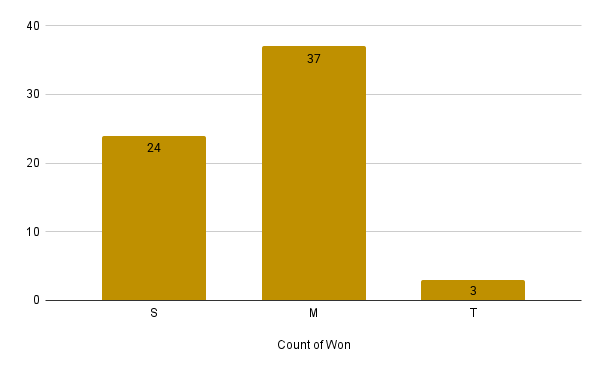
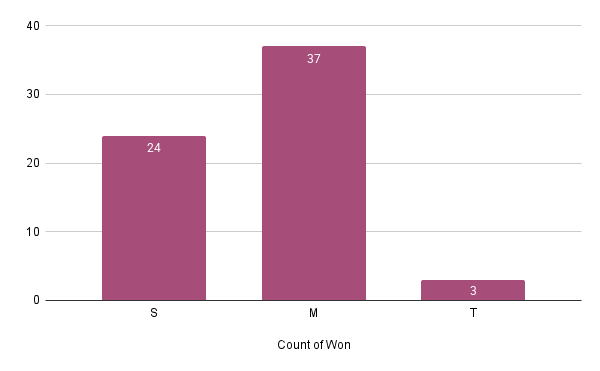
Add files via upload

Changed region(s): [[0.42, 0.1186, 0.63, 0.8302], [0.15, 0.3558, 0.36, 0.8302], [0.69, 0.7412, 0.9, 0.8302]]

diff --git a/scrabble/index.html b/scrabble/index.html
@@ -1,0 +1,344 @@
+<!DOCTYPE html>
+<html lang="en-us">
+  <head>
+    <meta charset="utf-8">
+    <meta http-equiv="X-UA-Compatible" content="IE=edge,chrome=1">
+    
+    <title>Scrabble: what letters lead to a win? | Aryana Collins Jackson</title>
+    <meta name="viewport" content="width=device-width,minimum-scale=1">
+    <meta name="description" content="An analysis of how getting certain letters during a Scrabble game impact the outcome. Based on 64 two-person games.">
+    <meta name="generator" content="Hugo 0.92.0" />
+    
+    
+      <META NAME="ROBOTS" CONTENT="NOINDEX, NOFOLLOW">
+    
+
+    
+<link rel="stylesheet" href="https://azcj.github.io/portfolio/ananke/css/main.min.css" >
+
+
+
+    
+    
+    
+      
+
+    
+
+    
+    
+    <meta property="og:title" content="Scrabble: what letters lead to a win?" />
+<meta property="og:description" content="An analysis of how getting certain letters during a Scrabble game impact the outcome. Based on 64 two-person games." />
+<meta property="og:type" content="article" />
+<meta property="og:url" content="https://azcj.github.io/portfolio/projects/scrabble/" /><meta property="article:section" content="projects" />
+<meta property="article:published_time" content="2025-08-20T11:25:05-04:00" />
+<meta property="article:modified_time" content="2025-08-20T11:25:05-04:00" /><meta property="og:site_name" content="Aryana Collins Jackson" />
+
+<meta itemprop="name" content="Scrabble: what letters lead to a win?">
+<meta itemprop="description" content="An analysis of how getting certain letters during a Scrabble game impact the outcome. Based on 64 two-person games."><meta itemprop="datePublished" content="2025-08-20T11:25:05-04:00" />
+<meta itemprop="dateModified" content="2025-08-20T11:25:05-04:00" />
+<meta itemprop="wordCount" content="2431">
+<meta itemprop="keywords" content="" /><meta name="twitter:card" content="summary"/>
+<meta name="twitter:title" content="Scrabble: what letters lead to a win?"/>
+<meta name="twitter:description" content="An analysis of how getting certain letters during a Scrabble game impact the outcome. Based on 64 two-person games."/>
+
+	
+  </head>
+
+  <body class="ma0 avenir bg-near-white">
+
+    
+   
+  
+
+  
+  
+  <header class="cover bg-top" style="background-image: url('https://azcj.github.io/portfolio/images/scrabble/scrabble-header.jpg');">
+    <div class="pb3-m pb6-l bg-black-60">
+      <nav class="pv3 ph3 ph4-ns" role="navigation">
+  <div class="flex-l justify-between items-center center">
+    <a href="https://azcj.github.io/portfolio/" class="f3 fw2 hover-white no-underline white-90 dib">
+      
+        Aryana Collins Jackson
+      
+    </a>
+    <div class="flex-l items-center">
+      
+
+      
+        <ul class="pl0 mr3">
+          
+          <li class="list f5 f4-ns fw4 dib pr3">
+            <a class="hover-white no-underline white-90" href="https://azcj.github.io/portfolio/about/" title="About page">
+              About
+            </a>
+          </li>
+          
+          <li class="list f5 f4-ns fw4 dib pr3">
+            <a class="hover-white no-underline white-90" href="https://azcj.github.io/portfolio/contact/" title="Contact page">
+              Contact
+            </a>
+          </li>
+          
+          <li class="list f5 f4-ns fw4 dib pr3">
+            <a class="hover-white no-underline white-90" href="https://azcj.github.io/portfolio/projects/" title="Projects page">
+              Projects
+            </a>
+          </li>
+          
+        </ul>
+      
+      
+<div class="ananke-socials">
+  
+    <a href="https://www.linkedin.com/in/aryana-collins-jackson-6100ba139/" target="_blank" class="linkedin ananke-social-link link-transition stackoverflow link dib z-999 pt3 pt0-l mr1" title="LinkedIn link" rel="noopener" aria-label="follow on LinkedIn——Opens in a new window">
+      
+        <span class="icon"><svg style="enable-background:new 0 0 65 65;" version="1.1" viewBox="0 0 65 65"  xml:space="preserve" xmlns="http://www.w3.org/2000/svg" xmlns:xlink="http://www.w3.org/1999/xlink">
+  <path d="M50.837,48.137V36.425c0-6.275-3.35-9.195-7.816-9.195  c-3.604,0-5.219,1.983-6.119,3.374V27.71h-6.79c0.09,1.917,0,20.427,0,20.427h6.79V36.729c0-0.609,0.044-1.219,0.224-1.655  c0.49-1.22,1.607-2.483,3.482-2.483c2.458,0,3.44,1.873,3.44,4.618v10.929H50.837z M22.959,24.922c2.367,0,3.842-1.57,3.842-3.531  c-0.044-2.003-1.475-3.528-3.797-3.528s-3.841,1.524-3.841,3.528c0,1.961,1.474,3.531,3.753,3.531H22.959z M34,64  C17.432,64,4,50.568,4,34C4,17.431,17.432,4,34,4s30,13.431,30,30C64,50.568,50.568,64,34,64z M26.354,48.137V27.71h-6.789v20.427  H26.354z" style="fill-rule:evenodd;clip-rule:evenodd;fill:{{ .fill }};"/>
+</svg>
+</span>
+      
+<span class="new-window"><svg  height="8px"  style="enable-background:new 0 0 1000 1000;" version="1.1" viewBox="0 0 1000 1000"  xml:space="preserve" xmlns="http://www.w3.org/2000/svg" xmlns:xlink="http://www.w3.org/1999/xlink" >
+<path d="M598 128h298v298h-86v-152l-418 418-60-60 418-418h-152v-86zM810 810v-298h86v298c0 46-40 86-86 86h-596c-48 0-86-40-86-86v-596c0-46 38-86 86-86h298v86h-298v596h596z" style="fill-rule:evenodd;clip-rule:evenodd;fill:;"/>
+</svg>
+</span></a>
+  
+</div>
+    </div>
+  </div>
+</nav>
+
+      <div class="tc-l pv6 ph3 ph4-ns">
+        
+          <h1 class="f2 f1-l fw2 white-90 mb0 lh-title">Scrabble: what letters lead to a win?</h1>
+          
+            <h2 class="fw1 f5 f3-l white-80 measure-wide-l center lh-copy mt3 mb4">
+              An analysis of how getting certain letters during a Scrabble game impact the outcome. Based on 64 two-person games.
+            </h2>
+          
+        
+      </div>
+    </div>
+  </header>
+
+
+
+    <main class="pb7" role="main">
+      
+  
+  <article class="flex-l flex-wrap justify-between mw8 center ph3">
+    <header class="mt4 w-100">
+      <aside class="instapaper_ignoref b helvetica tracked">
+          
+        PROJECTS
+      </aside>
+      
+
+
+
+
+
+
+
+
+
+
+  <div id="sharing" class="mt3 ananke-socials">
+    
+      
+      <a href="https://www.linkedin.com/shareArticle?mini=true&amp;url=https://azcj.github.io/portfolio/projects/scrabble/&amp;title=Scrabble:%20what%20letters%20lead%20to%20a%20win?" class="ananke-social-link linkedin no-underline" aria-label="share on LinkedIn">
+        
+        <span class="icon"> <svg style="enable-background:new 0 0 65 65;" version="1.1" viewBox="0 0 65 65"  xml:space="preserve" xmlns="http://www.w3.org/2000/svg" xmlns:xlink="http://www.w3.org/1999/xlink">
+  <path d="M50.837,48.137V36.425c0-6.275-3.35-9.195-7.816-9.195  c-3.604,0-5.219,1.983-6.119,3.374V27.71h-6.79c0.09,1.917,0,20.427,0,20.427h6.79V36.729c0-0.609,0.044-1.219,0.224-1.655  c0.49-1.22,1.607-2.483,3.482-2.483c2.458,0,3.44,1.873,3.44,4.618v10.929H50.837z M22.959,24.922c2.367,0,3.842-1.57,3.842-3.531  c-0.044-2.003-1.475-3.528-3.797-3.528s-3.841,1.524-3.841,3.528c0,1.961,1.474,3.531,3.753,3.531H22.959z M34,64  C17.432,64,4,50.568,4,34C4,17.431,17.432,4,34,4s30,13.431,30,30C64,50.568,50.568,64,34,64z M26.354,48.137V27.71h-6.789v20.427  H26.354z" style="fill-rule:evenodd;clip-rule:evenodd;fill:{{ .fill }};"/>
+</svg>
+</span>
+        
+      </a>
+    
+  </div>
+
+
+      <h1 class="f1 athelas mt3 mb1">Scrabble: what letters lead to a win?</h1>
+      
+      
+      
+      <time class="f6 mv4 dib tracked" datetime="2025-08-20T11:25:05-04:00">August 20, 2025</time>
+      
+
+      
+      
+    </header>
+    <div class="nested-copy-line-height lh-copy serif f4 nested-links nested-img mid-gray pr4-l w-two-thirds-l"><p>Overview:</p>
+<ul>
+<li>64 Scrabble games were recorded between myself and my boyfriend (2-player games only) between December 2019 and February 2025 (<em>yes</em>, this means that the sample size is very small).</li>
+<li>Getting a Z or J for either of us brings our scores down, while X brings our scores up.</li>
+<li>S wins games most when he has a Y; I win games most when I have a W.</li>
+<li>As is the case with all of my projects shown on this site, this analysis is just for fun. I am very aware that 64 samples is not a large enough dataset to draw any accurate insights from. I still had a good time pulling this together, and I think there are some interesting things that came out of it.</li>
+</ul>
+<hr>
+<p>Context:</p>
+<ul>
+<li>My boyfriend and I bought a French Scrabble game in 2019. The French game has seven high-scoring letters: J (8 points), K (10 points), Q (8 points), W (10 points), X (10 points), Y (10 points), and Z (10 points). We played the game in English.</li>
+<li>Scrabble became a pastime for us during the pandemic. Fifty games were played in 2020 alone.</li>
+<li>I kept track of the dates we played, who started the game, who won the game, the final scores, and who had each of the seven high-scoring letters.</li>
+<li>I did not keep track of what letters were left over at the end of the game and therefore what scores were added and subtracted from final scores. In future, I would add this to the data in order to analyse the most common ending letters/points, to find out if that impacts the overall winner more than not, and to see who most often gets stuck with letters at the end.</li>
+<li>I also did not track the order in which the letters were chosen. In future, I would add this as well as it could be interesting to see how order impacts scoring and winning (e.g., I hypothesize that getting a Q during the last turn would have a negative impact on score).</li>
+</ul>
+<hr>
+<p>Questions:</p>
+<ol>
+<li>Does starting have an impact on the outcome of the game for each of us? Does starting have an impact on score?</li>
+<li>Which high-scoring letters most often lead to a win for each of us? Which letters most often lead to a loss? How do the odds of winning change for each letter? In other words, while playing the game, can I anticipate a higher or lower chance of winning depending on which letters I get?</li>
+<li>How many points is each letter responsible for? In other words, while playing the game, can I anticipate an increase or decrease in a certain amount of points based on which letters I get?</li>
+<li>What combination of letters most often leads to a win for each of us? What combination of letters leads to a loss more?</li>
+</ol>
+<p><strong>I have organized this project into sections based on some preliminary figures, the questions above, and a section at the end diving into the three tied games.</strong></p>
+<p>For the remainder of this project, I am referred to as &ldquo;M&rdquo; and my boyfriend is referred to as &ldquo;S&rdquo;.</p>
+<hr>
+<p><strong>Preliminary analysis and visualizations</strong></p>
+<p>We mostly played throughout the pandemic, resulting in the vast majority of games in 2020.</p>
+<p><img src="https://azcj.github.io/portfolio/images/scrabble/GamesByYear.png" alt="Count of games by year"></p>
+<p>Looks like we were really crazy about it in January 2020 specifically!</p>
+<p><img src="https://azcj.github.io/portfolio/images/scrabble/GamesByMonth.png" alt="Count of games by month"></p>
+<p>I won 37 games, S won 24 games, and there were 3 ties</p>
+<p><img src="https://azcj.github.io/portfolio/images/scrabble/CountOfWon.png" alt="Overview of Scrabble games won"></p>
+<p>Unfortunately, six games had incomplete data on who had which letters.</p>
+<p>I got at least four of the seven high-scoring letters in 34 out of the 58 games remaining, while S had at least four of those letters in 24 games. I had at least five of the seven high-scoring letters in 16 games, while he had at least five of the letters in 14 games - much more comparable. I had all seven high-scoring letters in only one game, while S never got all seven.</p>
+<p>The chart below shows the number of games played where I had anywhere from 1-7 of the high-scoring letters.</p>
+<p><img src="https://azcj.github.io/portfolio/images/scrabble/NumLettersHist.png" alt="Number of letters that I had histogram"></p>
+<p>We got each letter between 26 and 33 times in those 58 games. No remarkable insights here, although S got Z much more often than I did.</p>
+<p><img src="https://azcj.github.io/portfolio/images/scrabble/CountsOfLetters.png" alt="Counts of games in which we got each letter"></p>
+<hr>
+<p><strong>1.Does starting have an impact on the outcome of the game for each of us? Does starting have an impact on score?</strong></p>
+<p><em>In this section, I am again only looking at 55 games: the games with complete data and those with a winner - no ties.</em></p>
+<p>I did a few different tests to determine whether the starting player had any more of a chance of winning or losing than the non-starting player. Because these were two binary categorical variables, I did a Pearson test, a Chi-2 test of independence, and a Fisher&rsquo;s exact test. Unfortunately the p-values for all three were insignificant. The values below are rounded to the fourth decimal place.</p>
+<p>Pearson correlation (phi): 0.0510
+p-value: 0.7144</p>
+<p>Chi-2 statistic: 0.0088
+p-value: 0.9254</p>
+<p>Fisher&rsquo;s odds ratio: 1.2338
+p-value: 0.7827</p>
+<p>Then, in order to look at the correlation between the starting player and score, I split the dataset up between myself and S. For my dataset, &ldquo;Starter&rdquo; was a binary variable containing 1 if I started and 0 if S started, and my score was the second column.</p>
+<p>The Pearson correlation was insignificant again:</p>
+<p>Pearson correlation (phi): 0.1014
+p-value: 0.4655</p>
+<p>However, I also chose to do a Mann–Whitney test, chosen due to the non-normality of my scores:</p>
+<p><img src="https://azcj.github.io/portfolio/images/scrabble/M_Score_Histogram.png" alt="A histogram showing non-normality of my scores"></p>
+<p>Mann-Whitney statistic: 2916.0
+p-value &lt; 0.0000</p>
+<p>While the Pearson test was insignificant, the Mann-Whitney test shows a difference in distribution between the scores when I started the game and when I didn&rsquo;t. To examine this further, here&rsquo;s a boxplot of the two groups:</p>
+<p><img src="https://azcj.github.io/portfolio/images/scrabble/M_Score_boxplot_split.png" alt="A boxplot split by whether I started the game"></p>
+<p>Looking at the above figure, I can say that there is a possibility of reaching higher scores when I start the game, but the difference is not huge.</p>
+<p>For S&rsquo;s dataset, &ldquo;Starter&rdquo; contained 1 if he started, and 0 if I started, with his score as the second column.</p>
+<p>The Pearson correlation was insignificant for his data as well:</p>
+<p>Pearson correlation (phi): 0.1232
+p-value: 0.3748</p>
+<p>His score data looks more normal but failed a Shapiro test:</p>
+<p>Shapiro statistic: 0.9804
+p-value: 0.5171</p>
+<p><img src="https://azcj.github.io/portfolio/images/scrabble/S_Score_Histogram.png" alt="A histogram showing non-normality of S&rsquo;s scores"></p>
+<p>The Mann-Whitney test results for S&rsquo;s score data are below (the p-values of the test on my data and his are different but both very small):</p>
+<p>Mann-Whitney statistic: 2916.0
+p-value &lt; 0.0000</p>
+<p>Again, the Mann-Whitney test shows a difference in distribution between the scores when he started the game and when he didn&rsquo;t. Below is a boxplot of the two groups:</p>
+<p><img src="https://azcj.github.io/portfolio/images/scrabble/S_Score_boxplot_split.png" alt="A boxplot split by whether S started the game"></p>
+<p>His scores seem to vary more when he starts a game, with both a possibility of reaching higher scores but also lower scores when he starts the game.</p>
+<p><strong>2. Which high-scoring letters most often lead to a win? Which letters most often lead to a loss? How do the odds of winning change for each letter? In other words, while playing the game, can I anticipate a higher or lower chance of winning depending on which letters I get?</strong></p>
+<p><em>In this section, I am looking at the 58 games with complete data only.</em></p>
+<p>First, a quick look at the win rates associated with each letter. For this part, I looked at whether the presence of a letter was associated with a win or loss. For example, if there was a game where I had a J and I won, that would count as a win for J. If there was a game where I had a J and I lost, that would count as a loss for J.</p>
+<p>Below is a chart showing the percentage of wins when the winner had each letter. Y had the highest win percentage of over 65% (meaning that when one of us had Y, that person won the game over 65% of the time - 38 games). Z had the lowest win percentage of almost 47%, and Z and J were the only letters associated with a win percentage of less than 50%. This could indicate that getting Z and J leads to a slightly less than random chance of winning - but more on this later in section xx.</p>
+<p><img src="https://azcj.github.io/portfolio/images/scrabble/LetterWinPercsTotal.png" alt="Total win percentage associated with each letter"></p>
+<p>The chart below shows the percentage of wins when S had each letter. Again, Y had the highest win percentage of almost 61%. Z and J had the lowest win percentage of 40%, and Z, J, and Q were the letters associated with a win percentage of less than 50%.</p>
+<p><img src="https://azcj.github.io/portfolio/images/scrabble/LetterWinPercsS.png" alt="S&rsquo;s win percentage associated with each letter"></p>
+<p>And the below chart shows the percentage of wins I had with each letter. Interestingly, the letter with the highest win percentage for me was W, with K and Y not far behind. This could mean that I am simply better at using W and K than S is. None of the letters I get are associated with a win rate lower than 50%, which indicates that getting any of these letters increases my odds of a win. The letters I get that have the lowest win rate are J and Z.</p>
+<p><img src="https://azcj.github.io/portfolio/images/scrabble/LetterWinPercsM.png" alt="My win percentage associated with each letter"></p>
+<p>To visualize the how win rates differ between S and me, the chart below shows how getting each letter impacts the odds of winning - a negative percentage shows the odds dropping when compared to random chance (50%), and a positive percentage shows the odds increasing when compared to random chance.</p>
+<p>xx - redo chart in Python
+<img src="https://azcj.github.io/portfolio/images/scrabble/WinPercsDiffRandom.png" alt="My win percentage associated with each letter"></p>
+<p><strong>3. How many points is each letter responsible for? In other words, while playing the game, can I anticipate an increase or decrease in a certain amount of points based on which letters I get?</strong></p>
+<p>This question is similar to the above, but here, I am really searching for the actual points that each letter brings to the game.</p>
+<p>I chose to do some machine learning here with binary classification and regression. Remember that this analysis is just for fun and that I wouldn&rsquo;t do machine learning on such few samples if I needed real results.</p>
+<p>I started with the 58 games that have complete data and further removed the three games that ended in a tie, leaving 55 games. For the first model, I focused on myself, so the &ldquo;Win&rdquo; column was 1 if I won and 0 if I lost. Each letter column was also binary with 1 if I had the letter and 0 if I didn&rsquo;t.</p>
+<p>I fit an XGBoost classifier with the objective &ldquo;binary:logistic&rdquo; and the booster &ldquo;gblinear&rdquo;. I then used Shapley values as model explainers to understand the impact of each letter:</p>
+<p><img src="https://azcj.github.io/portfolio/images/scrabble/M_binarylogistic__gblinearglobalshapleys.png" alt="Global Shapley values for an XBG Classifier model on data predicting a win or not for me"></p>
+<p>It looks like letters Z and Q negatively impact my win odds, which confirms findings from above that my lowest win rates were games where I had Z and Q. Interestingly, the presence of J or not doesn&rsquo;t seem to make much of an impact in this model. Note that I did not test the model for future predictions or make a train-test split - the model was built for explanation purposes only, and so it was built on all data.</p>
+<p>The same process was done for S&rsquo;s win data, with the following Shapley results:</p>
+<p><img src="https://azcj.github.io/portfolio/images/scrabble/S_binarylogistic_gblinear_globalshapleys.png" alt="Global Shapley values for an XBG Classifier model on data predicting a win or not for S"></p>
+<p>We see a similar story here, with the letter Z most contributing negatively towards a win, which confirms earlier findings. The letters J and Q do not make much of an impact in this model.</p>
+<p>To see the impact of each letter on my score, I fit an XGBoost Regressor model with the objective &ldquo;reg:squarederror&rdquo; - again, the model was built just for explanatory purposes rather than future prediction purposes, so the entire dataset is used. The coefficients for each letter are below:</p>
+<p>J = 4.00471
+K = 12.5959
+Q = -3.0184
+W = 9.26433
+X = 16.9354
+Y = 4.06752
+Z = -16.2962</p>
+<p>Again, this confirms earlier findings. Z impacts my score the most negatively by bringing my score down by an average of 16 points, while X impacts my score the most positively by bringing it up by an average of almost 17 points.</p>
+<p>The same XGB Regressor model was fit on S&rsquo;s data, which led to the following coefficients:</p>
+<p>J = -3.79383
+K = 2.79961
+Q = 4.34727
+W = 12.9154
+X = 15.76
+Y = 9.8497
+Z = -3.8046</p>
+<p>For S, a Z and a J both impact his score most negatively by bringing it down by an average of almost 4 points, while X impacts his score the most positively by bringing it up by an average of almost 16 points.</p>
+<p><strong>4. What combination of letters most often leads to a win for each of us? What combination of letters leads to a loss more?</strong></p>
+<p><em>In this section, I am again only looking at 55 games: the games with complete data and those with a winner - no ties.</em></p>
+<p>I identified the 129 possible combinations of 0, 1, 2, 3, 4, 5, 6, and 7 letters that each of us could have had. Out of those 129 combinations, we had only 80 different combinations between us. There were only 24 combos that appeared at least twice in the data. Using these 24 combinations of letters (including two single letters, J and K), I calculated the win percentage overall for each, similarly to how I did above. The label includes the percentage as well as the number of won games.</p>
+<p><img src="https://azcj.github.io/portfolio/images/scrabble/CombosWinPercTotal.png" alt="Total win percentage associated with each letter combination"></p>
+<p>Note that the sample size here is so small that we can&rsquo;t really draw any major conclusions - this whole analysis is just for fun! However, we can see that the more letters a player has, the higher the win rate. When a player had only one letter, they had a 0% win rate. If I had a larger dataset with more rows with each combo, I might be able to come to the conclusion that, for example, I have a 67% chance of winning if I get the letters J, X, Y, and Z during a game.</p>
+<p>For S, there were a few combinations that always led to a loss, but there were also a few that always led to a win - see the chart below.</p>
+<p><img src="https://azcj.github.io/portfolio/images/scrabble/CombosWinPercTotal-S.png" alt="S&rsquo;s win percentage associated with each letter combination"></p>
+<p>I would have loved to some more in-depth analysis to understand the best combination of letters to pick during a Scrabble game, but there just wasn&rsquo;t enough data to do anything more meaningful.</p>
+<hr>
+<p><strong>Final thoughts:</strong></p>
+<ul>
+<li>It felt like we played Scrabble way more than 64 times in five years.</li>
+<li>I enjoyed seeing the difference between score and wins - they are related, but they are not the same, and focusing on score only will not necessarily lead to a win. For example, the insight about me winning more games when having a W but having a higher score with X is interesting.</li>
+</ul>
+<ul class="pa0">
+  
+</ul>
+<div class="mt6 instapaper_ignoref">
+      
+      
+      </div>
+    </div>
+
+    <aside class="w-30-l mt6-l">
+
+
+
+
+</aside>
+
+  </article>
+
+    </main>
+    <footer class="bg-black bottom-0 w-100 pa3" role="contentinfo">
+  <div class="flex justify-between">
+  <a class="f4 fw4 hover-white no-underline white-70 dn dib-ns pv2 ph3" href="https://azcj.github.io/portfolio/" >
+    &copy;  Aryana Collins Jackson 2025 
+  </a>
+    <div>
+<div class="ananke-socials">
+  
+    <a href="https://www.linkedin.com/in/aryana-collins-jackson-6100ba139/" target="_blank" class="linkedin ananke-social-link link-transition stackoverflow link dib z-999 pt3 pt0-l mr1" title="LinkedIn link" rel="noopener" aria-label="follow on LinkedIn——Opens in a new window">
+      
+        <span class="icon"><svg style="enable-background:new 0 0 65 65;" version="1.1" viewBox="0 0 65 65"  xml:space="preserve" xmlns="http://www.w3.org/2000/svg" xmlns:xlink="http://www.w3.org/1999/xlink">
+  <path d="M50.837,48.137V36.425c0-6.275-3.35-9.195-7.816-9.195  c-3.604,0-5.219,1.983-6.119,3.374V27.71h-6.79c0.09,1.917,0,20.427,0,20.427h6.79V36.729c0-0.609,0.044-1.219,0.224-1.655  c0.49-1.22,1.607-2.483,3.482-2.483c2.458,0,3.44,1.873,3.44,4.618v10.929H50.837z M22.959,24.922c2.367,0,3.842-1.57,3.842-3.531  c-0.044-2.003-1.475-3.528-3.797-3.528s-3.841,1.524-3.841,3.528c0,1.961,1.474,3.531,3.753,3.531H22.959z M34,64  C17.432,64,4,50.568,4,34C4,17.431,17.432,4,34,4s30,13.431,30,30C64,50.568,50.568,64,34,64z M26.354,48.137V27.71h-6.789v20.427  H26.354z" style="fill-rule:evenodd;clip-rule:evenodd;fill:{{ .fill }};"/>
+</svg>
+</span>
+      
+<span class="new-window"><svg  height="8px"  style="enable-background:new 0 0 1000 1000;" version="1.1" viewBox="0 0 1000 1000"  xml:space="preserve" xmlns="http://www.w3.org/2000/svg" xmlns:xlink="http://www.w3.org/1999/xlink" >
+<path d="M598 128h298v298h-86v-152l-418 418-60-60 418-418h-152v-86zM810 810v-298h86v298c0 46-40 86-86 86h-596c-48 0-86-40-86-86v-596c0-46 38-86 86-86h298v86h-298v596h596z" style="fill-rule:evenodd;clip-rule:evenodd;fill:;"/>
+</svg>
+</span></a>
+  
+</div></div>
+  </div>
+</footer>
+
+  </body>
+</html>
